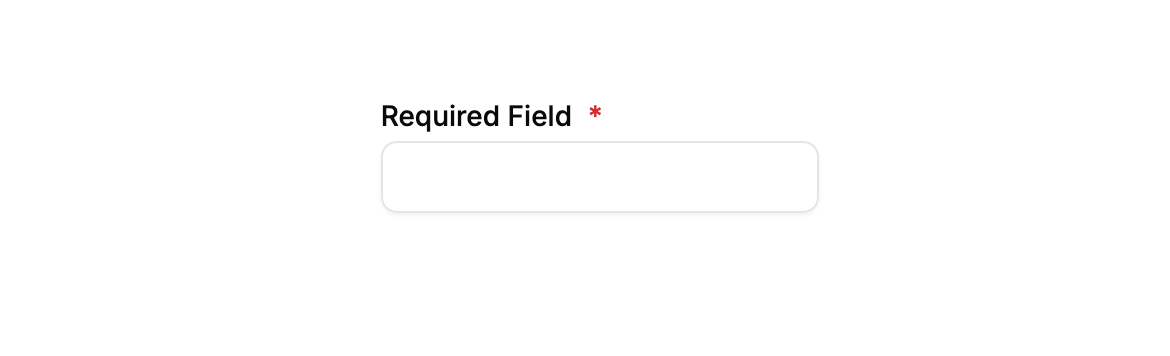
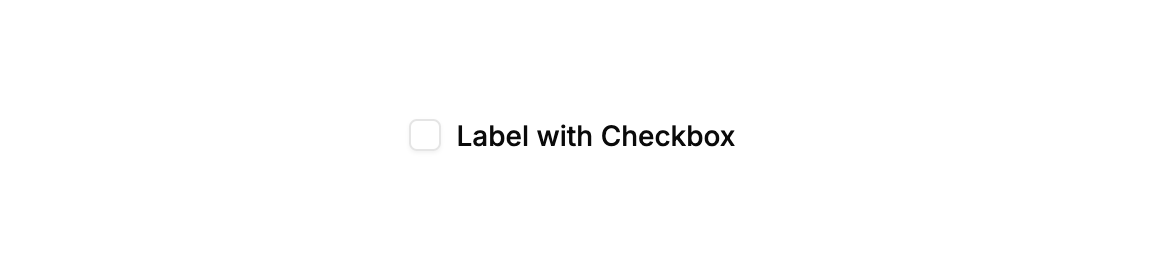
Make code examples more accurate

Changed region(s): [[0.3385, 0.4444, 0.6462, 0.563], [0.3077, 0.2963, 0.5231, 0.3556], [0.3385, 0.3852, 0.6769, 0.4148]]

diff --git a/src/content/docs/components/essentials.md b/src/content/docs/components/essentials.md
@@ -75,12 +75,10 @@ import { Button } from '@/ui/button'
 
 ```js
 import { Alert, AlertTitle, AlertDescription } from '@/ui/alert'
-import { InfoIcon } from 'lucide-react'
 
 <Alert>
-  <InfoIcon />
-  <AlertTitle>Information</AlertTitle>
-  <AlertDescription>This is an alert with an icon.</AlertDescription>
+  <AlertTitle>Alert Title</AlertTitle>
+  <AlertDescription>This is a default alert.</AlertDescription>
 </Alert>
 ```
 
@@ -132,8 +130,12 @@ import { Button } from '@/ui/button'
 
 ```js
 import { Label } from '@/ui/label'
+import { Checkbox } from '@/ui/checkbox'
 
-<Label>Default Label</Label>
+<div className="flex items-center space-x-2">
+    <Checkbox id="with-label" />
+    <Label htmlFor="with-label">Label with Checkbox</Label>
+</div>
 ```
 
 ## Tabs
